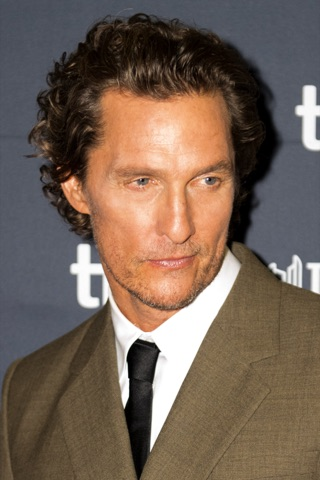
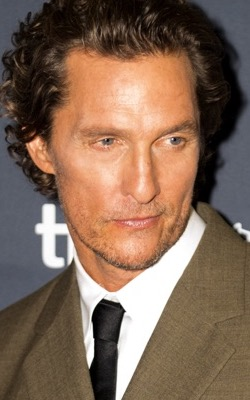
Jen's content round: Rivals-heavy hero carousel (her slide picks 2/5/11 + jam session), His & Hers moved below designer credits, Moriah removed, bio removed, full credits for Tell Me a Secret (Montana Mann; Fitzgerald, Lalezarzadeh), Parachute (Annie Silverstein; D'Arcy, Bennett — cards named), Cond

diff --git a/index.html b/index.html
@@ -392,7 +392,6 @@ if(!/(^|\.)jenkennedycostumedesign\.com$/.test(location.hostname)&&!/^(localhost
   <a class="wordmark" href="#hero">Jen&nbsp;Kennedy</a>
   <nav>
     <a href="#work" class="active">Work</a>
-    <a href="#about">About</a>
     <a href="#contact">Contact</a>
   </nav>
 </header>
@@ -440,7 +439,7 @@ if(!/(^|\.)jenkennedycostumedesign\.com$/.test(location.hostname)&&!/^(localhost
               <div class="fact"><span class="k">Release</span><span class="v">In cinemas August 14, 2026</span></div>
               <button class="trailer-link" data-yt="ygWCRqmH0Ts"><span class="tri"></span>Watch trailer</button>
               <div class="cast">
-                <div class="card"><div class="ph"><img loading="lazy" decoding="async" data-src="assets/cast-mcconaughey.jpg" style="transform:scale(1.35);transform-origin:50% 18%" alt="Matthew McConaughey"></div><div class="nm">Matthew McConaughey</div></div>
+                <div class="card"><div class="ph"><img loading="lazy" decoding="async" data-src="assets/cast-mcconaughey.jpg" alt="Matthew McConaughey"></div><div class="nm">Matthew McConaughey</div></div>
                 <div class="card"><div class="ph"><img loading="lazy" decoding="async" data-src="assets/cast-russell.jpg" alt="Kurt Russell"></div><div class="nm">Kurt Russell</div></div>
               </div>
             </div>
@@ -490,7 +489,12 @@ if(!/(^|\.)jenkennedycostumedesign\.com$/.test(location.hostname)&&!/^(localhost
           <div class="exp-grid">
             <div class="facts">
               <div class="fact"><span class="k">Role</span><span class="v">Costume Designer</span></div>
+              <div class="fact"><span class="k">Director</span><span class="v">Montana Mann</span></div>
+              <div class="fact"><span class="k">Starring</span><span class="v">Willa Fitzgerald<br>Ava Lalezarzadeh</span></div>
               <div class="fact"><span class="k">Status</span><span class="v">In production</span></div>
+              <div class="cast">
+                <div class="card"><div class="ph"><img loading="lazy" decoding="async" data-src="assets/cast-fitzgerald.jpg" alt="Willa Fitzgerald"></div><div class="nm">Willa Fitzgerald</div></div>
+              </div>
             </div>
             <div class="exp-stills single">
               <figure><img loading="lazy" decoding="async" data-src="assets/tell-me-a-secret.jpg" alt="A face reflected upside down in still water among yellow wildflowers, Tell Me a Secret"></figure>
@@ -501,35 +505,9 @@ if(!/(^|\.)jenkennedycostumedesign\.com$/.test(location.hostname)&&!/^(localhost
       <span class="peek"><img loading="lazy" decoding="async" data-src="assets/tell-me-a-secret.jpg" alt="A face reflected upside down in still water among yellow wildflowers, Tell Me a Secret"></span>
     </div>
 
-    <div id="his-and-hers" class="row-wrap">
-      <button class="row" aria-expanded="false">
-        <span class="no">04</span>
-        <span class="title">His &amp; Hers</span>
-        <span class="studio">Netflix / Fifth Season</span>
-        <span class="year">2026</span>
-        <span class="peek"><img loading="lazy" decoding="async" data-src="assets/hisher-3.jpg" alt="Tessa Thompson in a teal patterned blouse holding a camcorder, His and Hers"></span>
-      </button>
-      <div class="exp">
-        <div class="exp-inner">
-          <div class="exp-grid">
-            <div class="facts">
-              <div class="fact"><span class="k">Credit</span><span class="v">Assistant Costume Designer<br>to Mirren Gordon-Crozier</span></div>
-              <div class="fact"><span class="k">Director</span><span class="v">William Oldroyd</span></div>
-              <div class="fact"><span class="k">Starring</span><span class="v">Tessa Thompson · Jon Bernthal</span></div>
-              <button class="trailer-link" data-yt="tdf4bU58OzQ"><span class="tri"></span>Watch trailer</button>
-            </div>
-            <div class="exp-stills">
-              <figure><img loading="lazy" decoding="async" data-src="assets/hisher-1.jpg" alt="An actor in a red wool suit and orange turtleneck seated at a desk, His and Hers"></figure>
-              <figure><img loading="lazy" decoding="async" data-src="assets/hisher-2.jpg" alt="A detective in a navy field jacket walking a wooded crime scene, His and Hers"></figure>
-            </div>
-          </div>
-        </div>
-      </div>
-    </div>
-
     <div id="parachute" class="row-wrap">
       <button class="row" aria-expanded="false">
-        <span class="no">05</span>
+        <span class="no">04</span>
         <span class="title">Parachute</span>
         <span class="studio">Independent</span>
         <span class="year">2027</span>
@@ -539,11 +517,13 @@ if(!/(^|\.)jenkennedycostumedesign\.com$/.test(location.hostname)&&!/^(localhost
           <div class="exp-grid">
             <div class="facts">
               <div class="fact"><span class="k">Role</span><span class="v">Costume Designer</span></div>
+              <div class="fact"><span class="k">Director</span><span class="v">Annie Silverstein</span></div>
+              <div class="fact"><span class="k">Starring</span><span class="v">Emma D’Arcy · Haley Bennett</span></div>
               <div class="fact"><span class="k">Status</span><span class="v">In production</span></div>
             </div>
             <div class="cast">
-              <div class="card"><div class="ph"><img loading="lazy" decoding="async" data-src="assets/parachute-cast.jpg" style="object-position:16% 18%" alt="Cast portrait, Parachute"></div><div class="nm">Cast</div></div>
-              <div class="card"><div class="ph"><img loading="lazy" decoding="async" data-src="assets/parachute-cast.jpg" style="object-position:80% 18%" alt="Cast portrait, Parachute"></div><div class="nm">Cast</div></div>
+              <div class="card"><div class="ph"><img loading="lazy" decoding="async" data-src="assets/parachute-cast.jpg" style="object-position:16% 18%" alt="Haley Bennett"></div><div class="nm">Haley Bennett</div></div>
+              <div class="card"><div class="ph"><img loading="lazy" decoding="async" data-src="assets/parachute-cast.jpg" style="object-position:80% 18%" alt="Emma D’Arcy"></div><div class="nm">Emma D’Arcy</div></div>
             </div>
           </div>
         </div>
@@ -552,7 +532,7 @@ if(!/(^|\.)jenkennedycostumedesign\.com$/.test(location.hostname)&&!/^(localhost
 
     <div id="i-dont-understand-you" class="row-wrap">
       <button class="row" aria-expanded="false">
-        <span class="no">06</span>
+        <span class="no">05</span>
         <span class="title">I Don’t Understand You</span>
         <span class="studio">Hulu / Vertical</span>
         <span class="year">2024</span>
@@ -576,31 +556,9 @@ if(!/(^|\.)jenkennedycostumedesign\.com$/.test(location.hostname)&&!/^(localhost
       </div>
     </div>
 
-    <div id="moriah" class="row-wrap">
-      <button class="row" aria-expanded="false">
-        <span class="no">07</span>
-        <span class="title">Moriah</span>
-        <span class="studio">Independent</span>
-        <span class="year">2025</span>
-        <span class="peek"><img loading="lazy" decoding="async" data-src="assets/moriah.jpg" alt="Two figures in a small country church lit by stained glass, Moriah"></span>
-      </button>
-      <div class="exp">
-        <div class="exp-inner">
-          <div class="exp-grid">
-            <div class="facts">
-              <div class="fact"><span class="k">Role</span><span class="v">Costume Designer</span></div>
-            </div>
-            <div class="exp-stills single">
-              <figure><img loading="lazy" decoding="async" data-src="assets/moriah.jpg" alt="Two figures in a small country church lit by stained glass, Moriah"></figure>
-            </div>
-          </div>
-        </div>
-      </div>
-    </div>
-
     <div id="stay-at-conder-beach" class="row-wrap">
       <button class="row" aria-expanded="false">
-        <span class="no">08</span>
+        <span class="no">06</span>
         <span class="title">Stay at Conder Beach</span>
         <span class="studio">Greyshack</span>
         <span class="year">2025</span>
@@ -611,6 +569,8 @@ if(!/(^|\.)jenkennedycostumedesign\.com$/.test(location.hostname)&&!/^(localhost
           <div class="exp-grid">
             <div class="facts">
               <div class="fact"><span class="k">Role</span><span class="v">Costume Designer</span></div>
+              <div class="fact"><span class="k">Director</span><span class="v">Aaron Khandros</span></div>
+              <div class="fact"><span class="k">Starring</span><span class="v">Joseph Cross · Annabeth Gish</span></div>
             </div>
             <div class="exp-stills single">
               <figure><img loading="lazy" decoding="async" data-src="assets/conder-beach.jpg" alt="A man lying on a workbench in warm afternoon light, Stay at Conder Beach"></figure>
@@ -620,9 +580,35 @@ if(!/(^|\.)jenkennedycostumedesign\.com$/.test(location.hostname)&&!/^(localhost
       </div>
     </div>
 
+    <div id="his-and-hers" class="row-wrap">
+      <button class="row" aria-expanded="false">
+        <span class="no">07</span>
+        <span class="title">His &amp; Hers</span>
+        <span class="studio">Netflix / Fifth Season</span>
+        <span class="year">2026</span>
+        <span class="peek"><img loading="lazy" decoding="async" data-src="assets/hisher-3.jpg" alt="Tessa Thompson in a teal patterned blouse holding a camcorder, His and Hers"></span>
+      </button>
+      <div class="exp">
+        <div class="exp-inner">
+          <div class="exp-grid">
+            <div class="facts">
+              <div class="fact"><span class="k">Credit</span><span class="v">Assistant Costume Designer<br>to Mirren Gordon-Crozier</span></div>
+              <div class="fact"><span class="k">Director</span><span class="v">William Oldroyd</span></div>
+              <div class="fact"><span class="k">Starring</span><span class="v">Tessa Thompson · Jon Bernthal</span></div>
+              <button class="trailer-link" data-yt="tdf4bU58OzQ"><span class="tri"></span>Watch trailer</button>
+            </div>
+            <div class="exp-stills">
+              <figure><img loading="lazy" decoding="async" data-src="assets/hisher-1.jpg" alt="An actor in a red wool suit and orange turtleneck seated at a desk, His and Hers"></figure>
+              <figure><img loading="lazy" decoding="async" data-src="assets/hisher-2.jpg" alt="A detective in a navy field jacket walking a wooded crime scene, His and Hers"></figure>
+            </div>
+          </div>
+        </div>
+      </div>
+    </div>
+
     <div id="lessons-in-chemistry" class="row-wrap">
       <button class="row" aria-expanded="false">
-        <span class="no">09</span>
+        <span class="no">08</span>
         <span class="title">Lessons in Chemistry</span>
         <span class="studio">Apple TV+ · <span class="honor">Emmy-nominated</span></span>
         <span class="year">2023</span>
@@ -646,7 +632,7 @@ if(!/(^|\.)jenkennedycostumedesign\.com$/.test(location.hostname)&&!/^(localhost
 
     <div id="the-burial" class="row-wrap">
       <button class="row" aria-expanded="false">
-        <span class="no">10</span>
+        <span class="no">09</span>
         <span class="title">The Burial</span>
         <span class="studio">Amazon MGM</span>
         <span class="year">2023</span>
@@ -669,7 +655,7 @@ if(!/(^|\.)jenkennedycostumedesign\.com$/.test(location.hostname)&&!/^(localhost
 
     <div id="where-the-crawdads-sing" class="row-wrap">
       <button class="row" aria-expanded="false">
-        <span class="no">11</span>
+        <span class="no">10</span>
         <span class="title">Where the Crawdads Sing</span>
         <span class="studio">Columbia / Hello Sunshine</span>
         <span class="year">2022</span>
@@ -692,7 +678,7 @@ if(!/(^|\.)jenkennedycostumedesign\.com$/.test(location.hostname)&&!/^(localhost
 
     <div id="the-girl-from-plainville" class="row-wrap">
       <button class="row" aria-expanded="false">
-        <span class="no">12</span>
+        <span class="no">11</span>
         <span class="title">The Girl from Plainville</span>
         <span class="studio">Hulu / UCP</span>
         <span class="year">2022</span>
@@ -715,15 +701,6 @@ if(!/(^|\.)jenkennedycostumedesign\.com$/.test(location.hostname)&&!/^(localhost
 
   </div>
 </section>
-
-<!-- ABOUT STRIP -->
-<div class="about sr" id="about">
-  <p>Jen Kennedy designs costume for film and television — building character from <em>cut, cloth, and wear</em>, from independent features to Emmy-nominated studio series.</p>
-  <div class="aff mono">
-    <span><b>Costume Designers Guild</b> — Member</span>
-    <span>Los Angeles&nbsp;+&nbsp;New York</span>
-  </div>
-</div>
 
 <!-- FOOTER -->
 <footer id="contact">
@@ -773,18 +750,22 @@ if(!/(^|\.)jenkennedycostumedesign\.com$/.test(location.hostname)&&!/^(localhost
      alt:'Matthew McConaughey in aged workwear beside a pickup truck at a gas station at night',
      eyebrow:'Costume Design — Feature Film', title:'The Rivals of <em>Amziah King</em>',
      credit:'Heyday · Black Bear&nbsp;&nbsp;—&nbsp;&nbsp;In cinemas August 2026'},
-    {img:'assets/hisher-1.jpg', pos:'center 20%', yt:'tdf4bU58OzQ',
-     alt:'An actor in a red wool suit and orange turtleneck seated at a desk',
-     eyebrow:'Assistant Costume Design — Limited Series', title:'His &amp; <em>Hers</em>',
-     credit:'Netflix · Fifth Season&nbsp;&nbsp;—&nbsp;&nbsp;2026'},
+    {img:'assets/rivals-jam.jpg', pos:'center 40%', yt:'ygWCRqmH0Ts',
+     alt:'A night jam session: musicians in worn workwear playing banjo and mandolin at a roadside stand',
+     eyebrow:'Costume Design — Feature Film', title:'The Rivals of <em>Amziah King</em>',
+     credit:'Heyday · Black Bear&nbsp;&nbsp;—&nbsp;&nbsp;In cinemas August 2026'},
+    {img:'assets/rivals-bees.jpg', pos:'center 25%', yt:'ygWCRqmH0Ts',
+     alt:'Matthew McConaughey and Angelina LookingGlass in aged beekeeping suits, bandana and sunglasses',
+     eyebrow:'Costume Design — Feature Film', title:'The Rivals of <em>Amziah King</em>',
+     credit:'Heyday · Black Bear&nbsp;&nbsp;—&nbsp;&nbsp;In cinemas August 2026'},
+    {img:'assets/rivals-russell.jpg', pos:'center 30%', yt:'ygWCRqmH0Ts',
+     alt:'Kurt Russell in a striped short-sleeve shirt and western boots, lounging beside a cowboy hat',
+     eyebrow:'Costume Design — Feature Film', title:'The Rivals of <em>Amziah King</em>',
+     credit:'Heyday · Black Bear&nbsp;&nbsp;—&nbsp;&nbsp;In cinemas August 2026'},
     {img:'assets/tell-me-a-secret.jpg', pos:'center 40%', yt:null,
      alt:'A face reflected upside down in still water among yellow wildflowers',
      eyebrow:'Costume Design — Feature Film', title:'Tell Me a <em>Secret</em>',
      credit:'Sundance Lab&nbsp;&nbsp;—&nbsp;&nbsp;In production'},
-    {img:'assets/moriah.jpg', pos:'center 30%', yt:null,
-     alt:'Two figures in a small country church lit by stained glass',
-     eyebrow:'Costume Design — Feature Film', title:'<em>Moriah</em>',
-     credit:'Independent&nbsp;&nbsp;—&nbsp;&nbsp;2025'},
   ];
   const hero = $('#hero'), caption = $('.hero-caption');
   // frame 1 is already in the markup (so the hero survives with JS disabled);
@@ -913,7 +894,7 @@ if(!/(^|\.)jenkennedycostumedesign\.com$/.test(location.hostname)&&!/^(localhost
     if (!e.isIntersecting) return;
     navLinks.forEach(a => a.classList.toggle('active', a.getAttribute('href') === '#' + e.target.id));
   }), {rootMargin:'-45% 0px -50% 0px'});
-  ['work','about','contact'].forEach(id => { const el = document.getElementById(id); if (el) spy.observe(el); });
+  ['work','contact'].forEach(id => { const el = document.getElementById(id); if (el) spy.observe(el); });
 
   /* ---------- scroll reveals ---------- */
   const io = new IntersectionObserver(es => es.forEach(e => {
